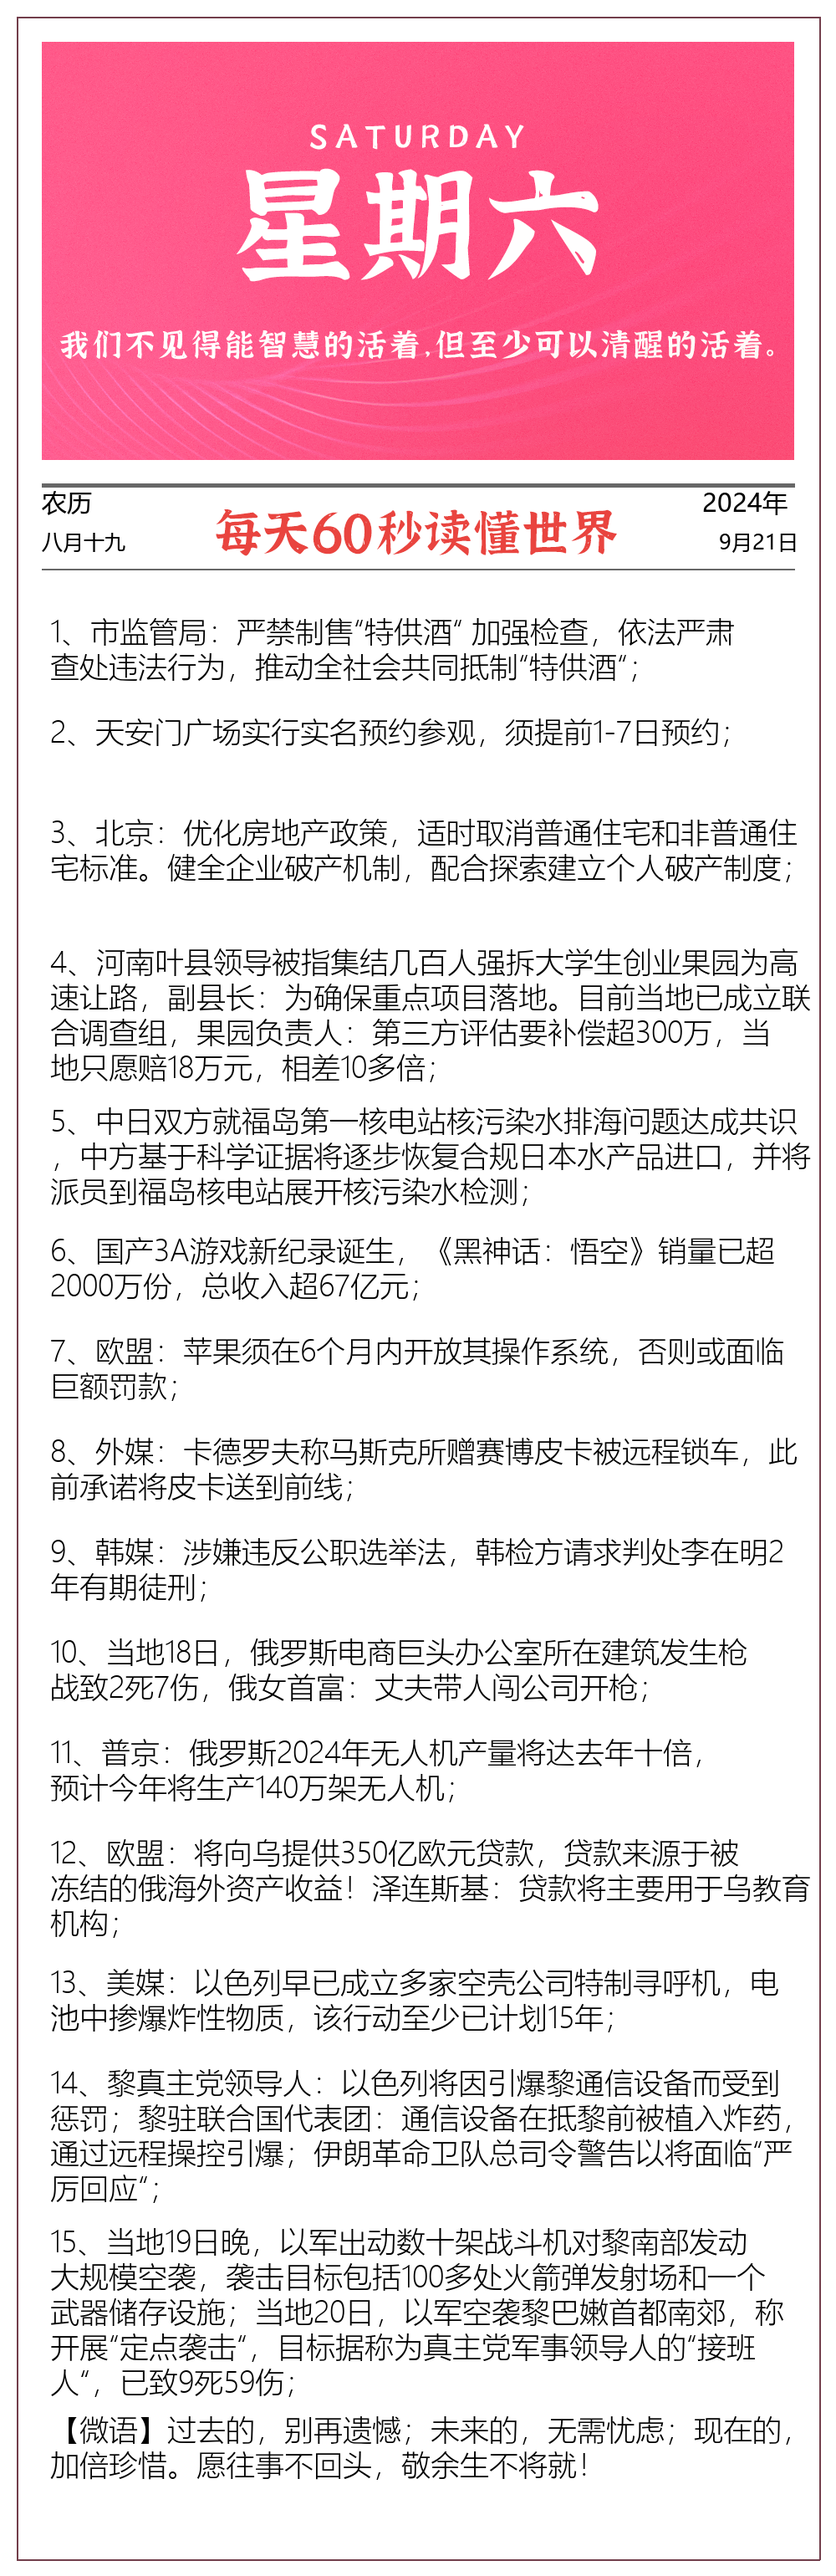
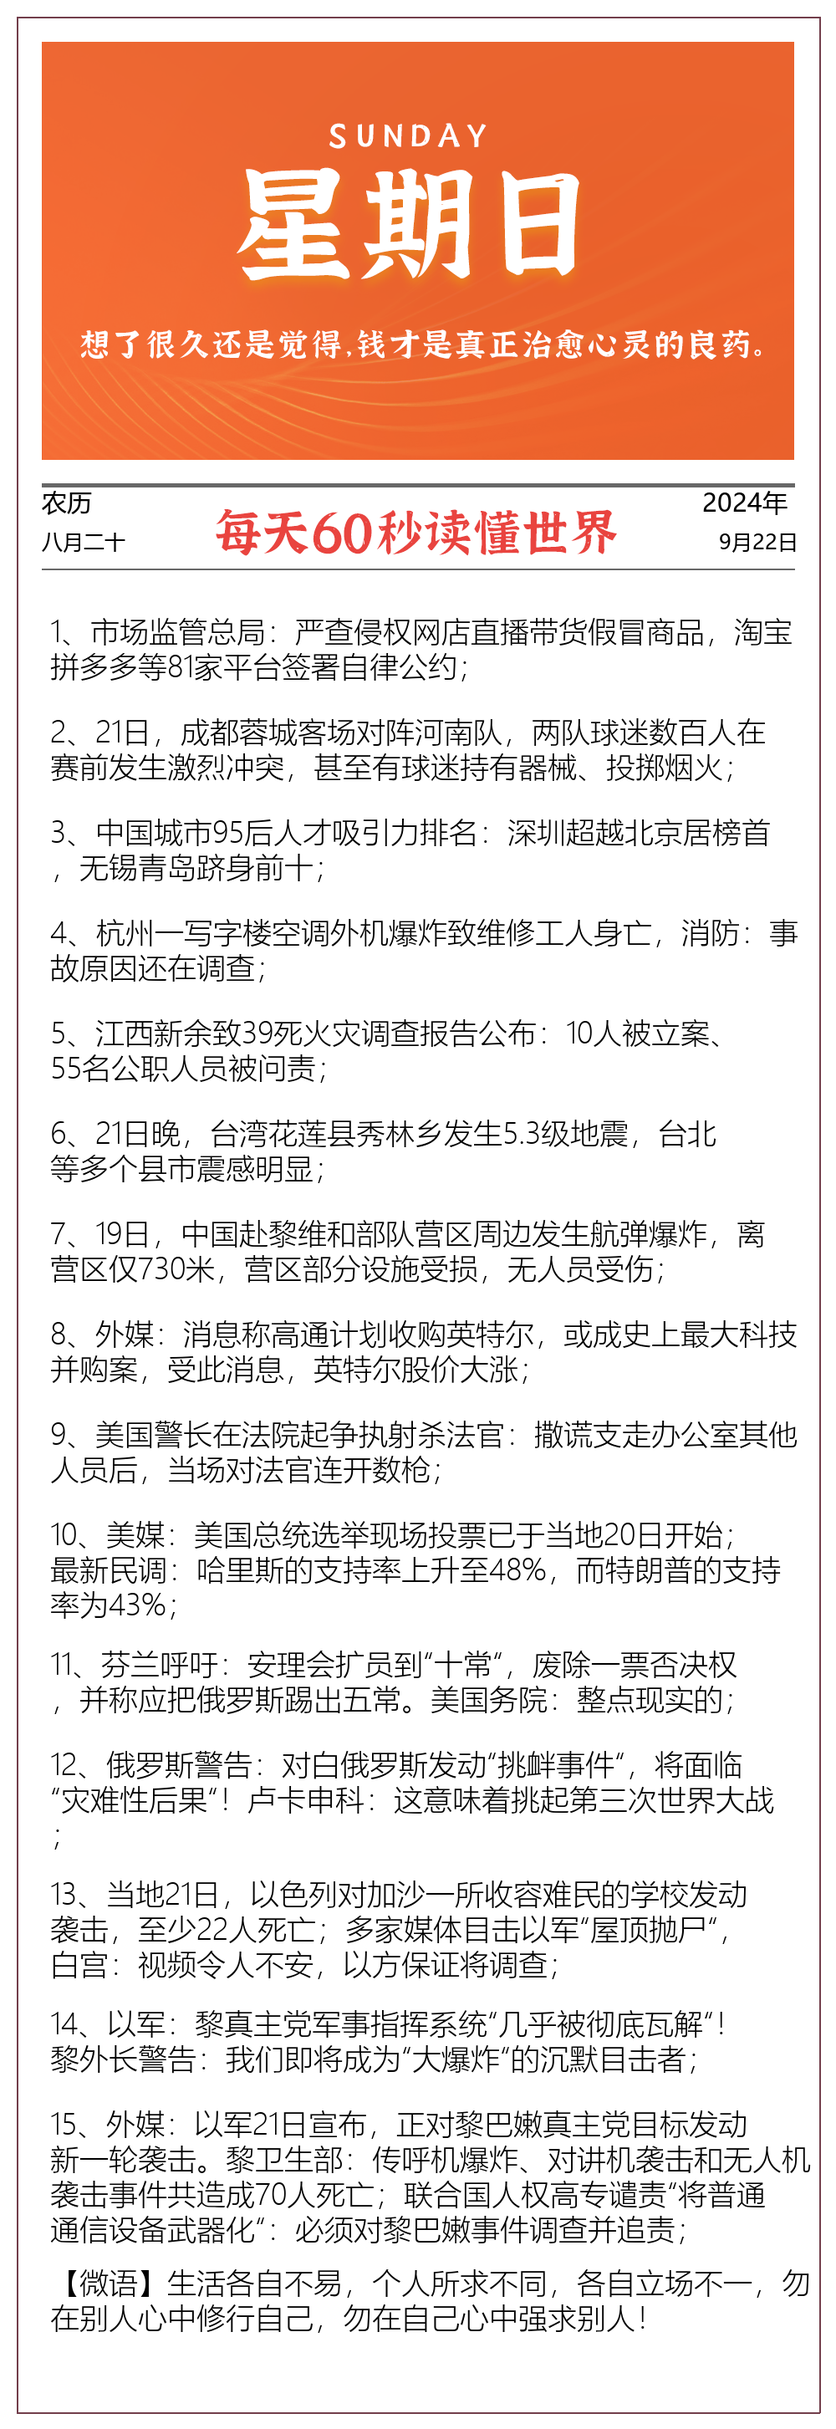
Update the "60s-for-news" picture

diff --git a/content/zh/posts/zaobao.md b/content/zh/posts/zaobao.md
@@ -1,6 +1,6 @@
 +++
 title = "每日60秒早报"
-date = 2024-09-21T04:34:01+08:00
+date = 2024-09-22T04:31:02+08:00
 weight = 1
 +++
 
